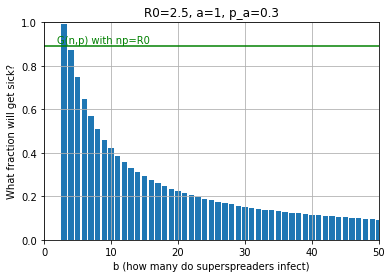
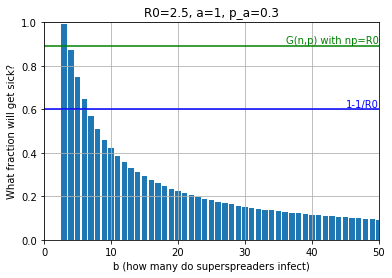
add info about herd immunity

diff --git a/README.md b/README.md
@@ -11,6 +11,9 @@ When R0 fixed, if most individuals observe quarantine, the same growth can only 
 
 ![Example chart](example.png "30% infect 1, 100ε% (the superspreaders) infect b, others infect 0")
 
+For $G(n,p)$ the blue line is the ["herd immunity threshold"](https://en.wikipedia.org/wiki/Herd_immunity#Mechanics) $1 - \frac 1 {R_0}$. If herd immunity is attained via "natural infection" as opposed to vaccination, the epidemics only begins to die out once this point is reached. The total infected fraction (the green line) is quite a bit larger, it is the unique solution $\rho=\rho(R_0)$ of $1-\rho = e^{-R_0 \rho}$
+in the interval $0 < \rho < 1$.
+
 # Literature
 
 Svante Janson and Malwina J. Luczak, *A new approach to the giant component problem*, Random Structures & Algorithms **34** (2009), 197-216.
